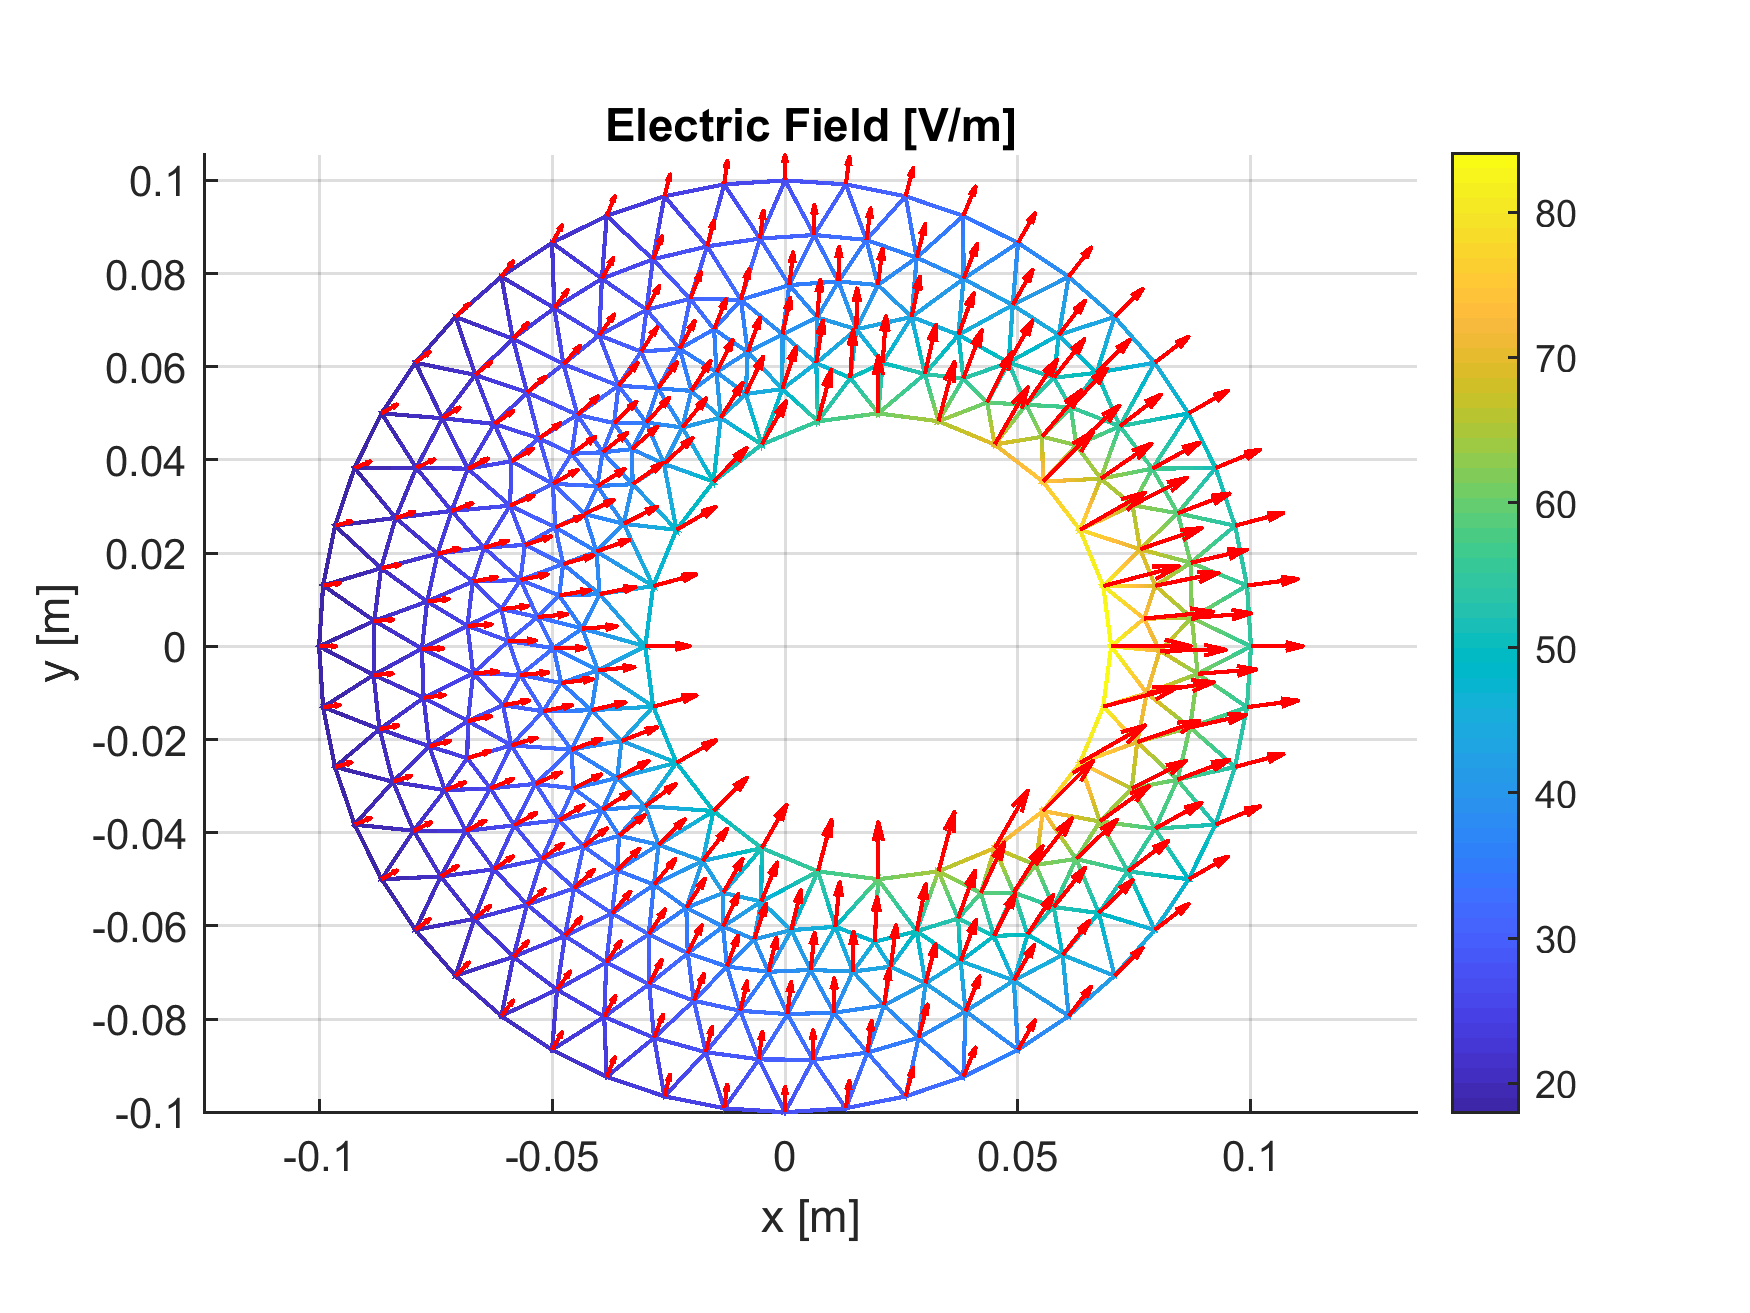
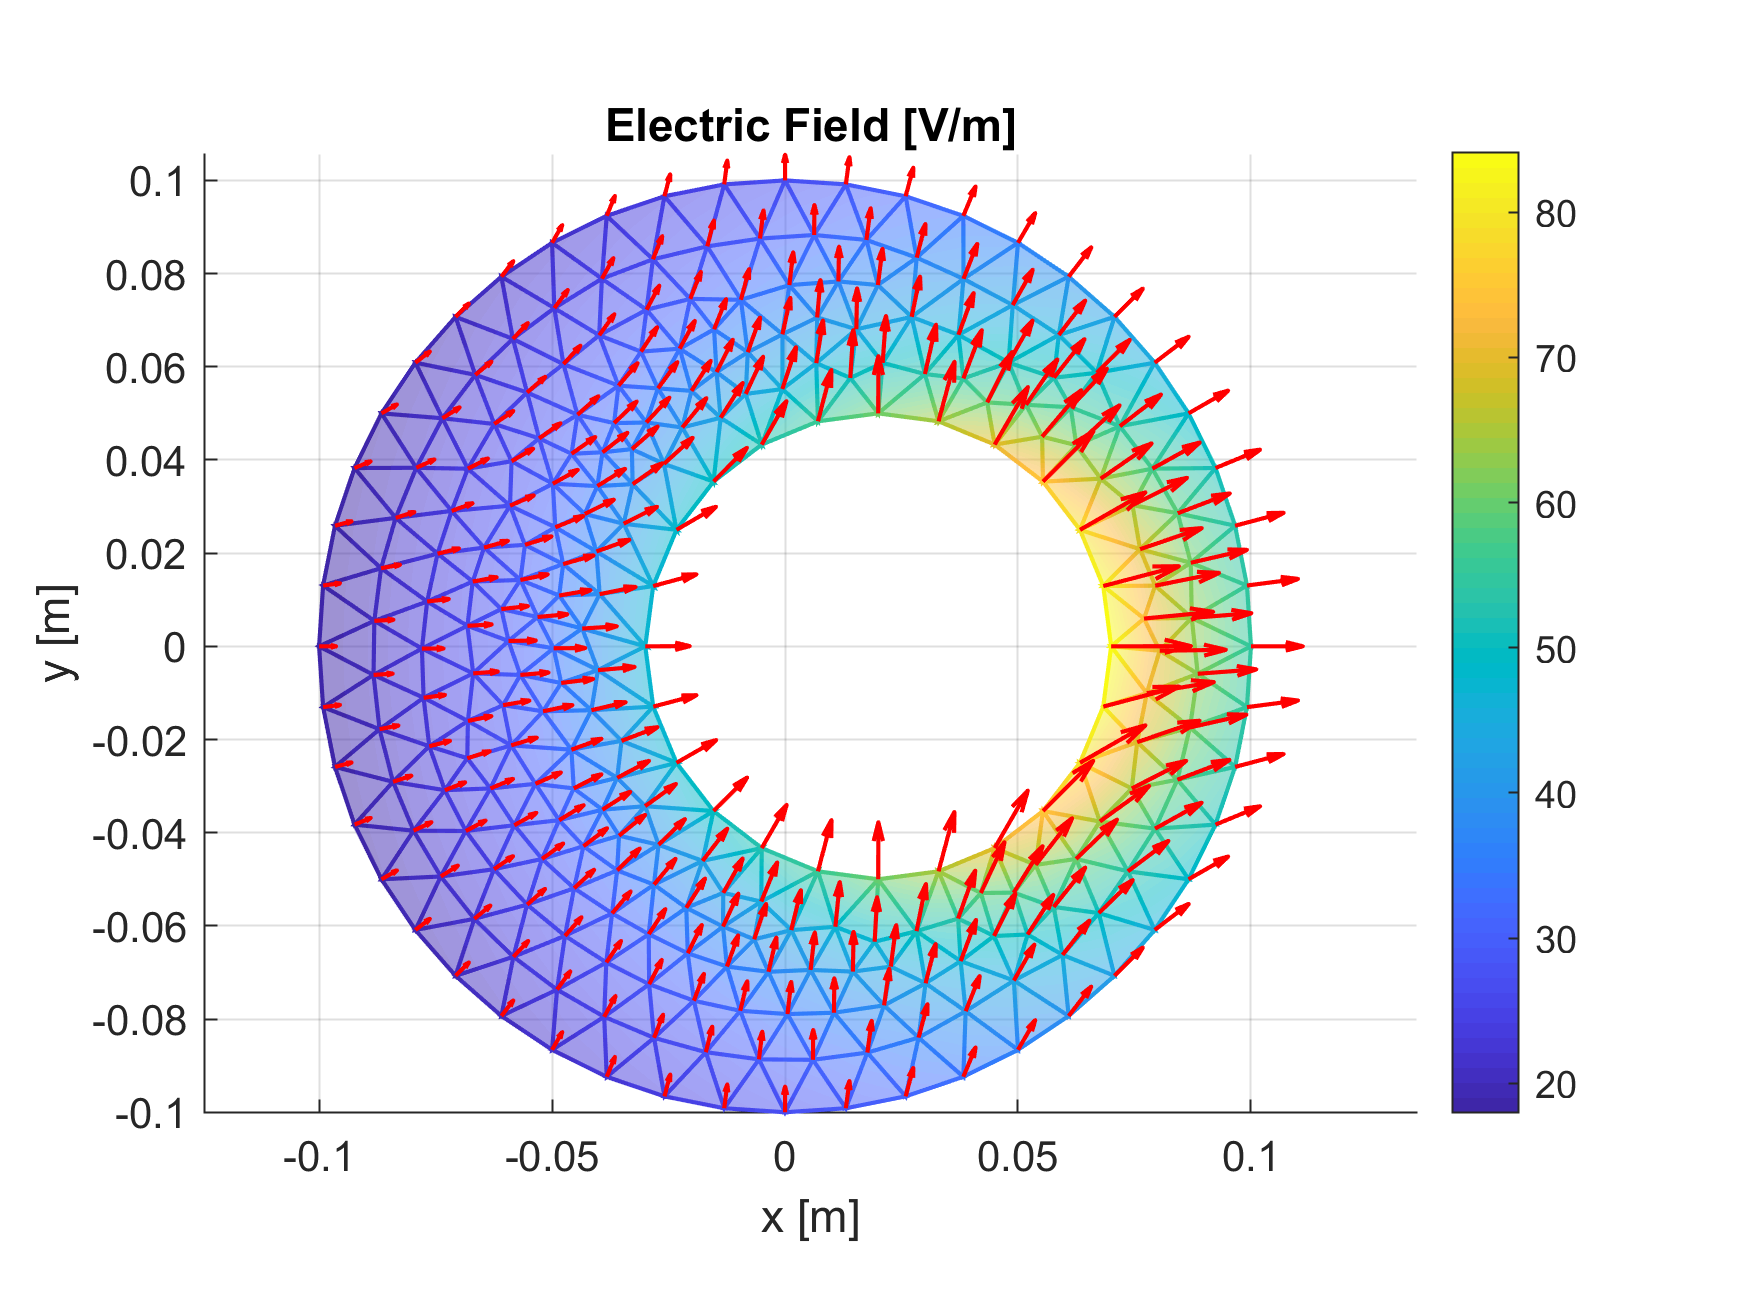
Correct a bug in plot_data
Surface were not plotted for 2d surface. Only the edge were shown.

Changed region(s): [[0.1851, 0.1249, 0.7406, 0.8431]]

diff --git a/fem_mesh_utils/plot_data.m b/fem_mesh_utils/plot_data.m
@@ -117,7 +117,7 @@ patch(...
     'Vertices', [geom.x ; geom.y].',...
     'CData', plt.data,...
     'Faces', geom.tri,...
-    'FaceColor', 'none',...
+    'FaceColor', 'interp',...
     'EdgeColor', 'interp',...
     'FaceAlpha', plt.face_alpha,...
     'LineWidth', plt.edge_width...
